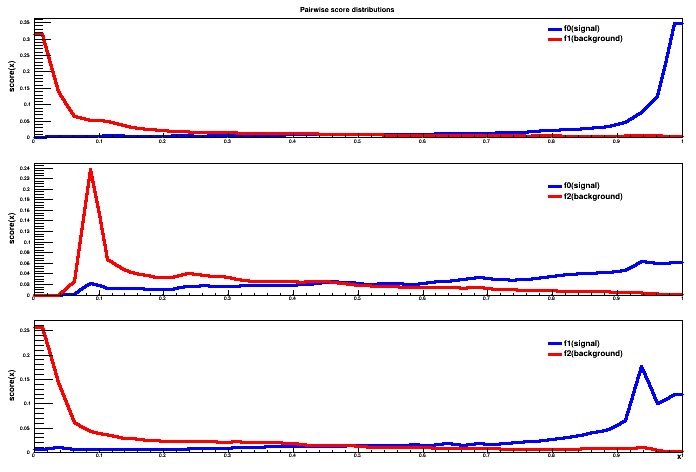
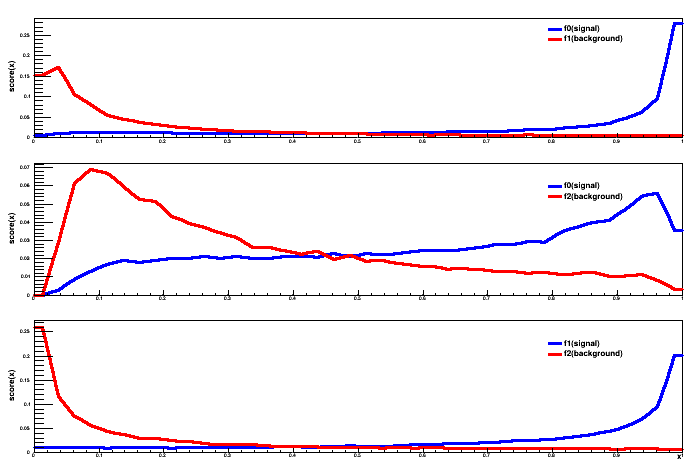
Problem solved with differences in pairwise scores

diff --git a/mlp.py b/mlp.py
@@ -228,7 +228,7 @@ def shared_dataset(data_xy, borrow=True):
     return shared_x, T.cast(shared_y, 'int32')
 
 def make_predictions(dataset, learning_rate=0.01, L1_reg=0.00, L2_reg=0.0001, n_epochs=10,
-              batch_size=20, n_hidden=10,in_size=1,out_size=2,
+              batch_size=20, n_hidden=40,in_size=1,out_size=2,
               model_file='model/mlp/adaptive_0_1.pkl'):
 
     test_set_x = dataset
@@ -270,7 +270,7 @@ def make_predictions(dataset, learning_rate=0.01, L1_reg=0.00, L2_reg=0.0001, n_
     return probs
 
 def train_mlp(learning_rate=0.01, L1_reg=0.00, L2_reg=0.0001, n_epochs=100,
-             dir='data/mlp',datatype='train',kpos=0,jpos=0, batch_size=20, n_hidden=10,in_size=1,out_size=2,
+             dir='data/mlp',datatype='train',kpos=0,jpos=0, batch_size=20, n_hidden=40,in_size=1,out_size=2,
               save_file='model/mlp/adaptive_0_1.pkl'):
 
 
@@ -304,7 +304,8 @@ def train_mlp(learning_rate=0.01, L1_reg=0.00, L2_reg=0.0001, n_epochs=100,
     datasets = loadData(datatype,kpos,jpos,folder=dir)
     train_set_x, train_set_y = datasets
     in_size = train_set_x.shape[1] if len(train_set_x.shape) > 1 else 1
-    indices = numpy.random.permutation(train_set_x.shape[0])
+    rng = numpy.random.RandomState(1234)
+    indices = rng.permutation(train_set_x.shape[0])
     train_set_x = train_set_x[indices]
     train_set_y = train_set_y[indices]
     if in_size == 1:
@@ -327,7 +328,6 @@ def train_mlp(learning_rate=0.01, L1_reg=0.00, L2_reg=0.0001, n_epochs=100,
     y = T.ivector('y')  # the labels are presented as 1D vector of
                         # [int] labels
 
-    rng = numpy.random.RandomState(1234)
 
     # construct the MLP class
     classifier = MLP(rng=rng, input=x, n_in=in_size,
